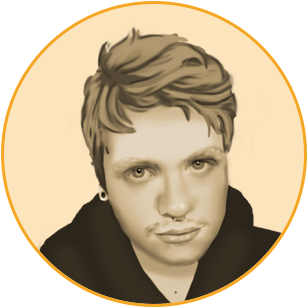
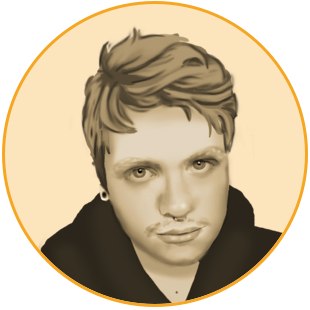
new images and shadow hover

diff --git a/src/components/MConversation.vue b/src/components/MConversation.vue
@@ -27,12 +27,12 @@
           :class="[(index == activeLine) || enableTranscript ? 'active' : 'inactive','row my-auto']">
           <div :class="[line.posLeft?'order-1':'order-2', 'col-3', 'col-md-2', 'p-1']">
             <router-link v-if="line.image && !isIframe" :to="{ name: 'PersonRoute', params: { person: line.name }}">
-                <img class="img-fluid img-limit" :src="require('../assets/images/' + line.image )">
+                <img class="img-fluid img-limit profile-shadow" :src="require('../assets/images/' + line.image )">
             </router-link>
             <a v-if="line.image && isIframe" class="nav-link"
             :href="'https://yri.youthradio.org/intheirownwords/p/' + line.name"
             target="_blank">
-              <img class="img-fluid img-limit" :src="require('../assets/images/' + line.image )">
+              <img class="img-fluid img-limit profile-shadow" :src="require('../assets/images/' + line.image )">
             </a>
           </div>
           <div :class="[line.cssclass, line.posLeft?'order-2':'order-1 curve-right','my-auto', 'col-9']" :id="`transcript-${index}`">

diff --git a/src/components/MSection.vue b/src/components/MSection.vue
@@ -24,13 +24,13 @@
               <div :class="[data.info.Person_Class,'row py-2']">
                 <div class="col-12 col-md-12 text-center">
                   <router-link v-if="!isIframe" :to="{ name: 'PersonRoute', params: { person: person }}">
-                      <img class="img-fluid img-limit" :src="require('../assets/images/' + data.info.Person_Image)">
+                      <img class="img-fluid img-limit profile-shadow" :src="require('../assets/images/' + data.info.Person_Image)">
                       <h5> {{ person }} </h5>
                   </router-link>
                   <a v-else class="nav-link"
                   :href="'https://yri.youthradio.org/intheirownwords/p/' + person"
                   target="_blank">
-                    <img class="img-fluid img-limit" :src="require('../assets/images/' + data.info.Person_Image)">
+                    <img class="img-fluid img-limit profile-shadow" :src="require('../assets/images/' + data.info.Person_Image)">
                     <h5> {{ person }} </h5>
                   </a>
                 </div>

diff --git a/src/css/theythem.css b/src/css/theythem.css
@@ -225,3 +225,7 @@ h2 {
 a {
     text-decoration: none;
 }
+
+.profile-shadow:hover {
+  filter: drop-shadow(3px 3px 2px gray);
+}
